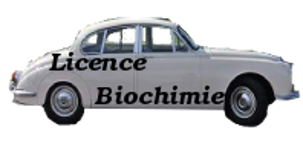
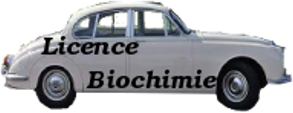
redimensionnement qd tt est chargé/ affinage image

diff --git a/test.html b/test.html
@@ -1,61 +1,56 @@
 <!doctype html>
 <html lang="fr">
+<head>
 
-<h1>Formation continue</h1>
-<h2>Graduat</h2>
-<p>En 2001 je suis <span>major de promotion</span> d'un Graduat d'<span>informatique de Gestion</span></p>
-<h2>Motivations</h2>
-<p>Après quelques boulots plus ou moins interessants pendant lesquels j'ai redécouvert l'informatique, je décide de m'y former.</p>
-<h2>Où et comment?</h2>
-<p>Pendant 3 ans j'irais 4 soirs/semaine après le boulot à l'école de commerce de Wavre suivre un Graduat d'informatique de Gestion</p>
-<h2>contenu</h2>
-<p> </p>
-<ul>
-    <li>Programmation :
-        <ul>
-            <li>C, C++</li>
-            <li>java</li>
-        </ul>
-    </li>
-    <li>Base de données :
-        <ul>
-            <li>SQL,</li>
-            <li>analyse Meurise</li>
-            <li>Oracle</li>
-        </ul>
-    </li>
-    <li>Réseau</li>
-    <li>bases linux</li>
-</ul>
-<p></p>
+<script type="text/javascript" src="jquery-1.4.2.min.js"></script>
 
+ <style type="text/css">
+	span{
+		padding:8px;
+		border:1px solid red;
+		color:blue;
+	}
+</style>
 
-<h1>Formation continue</h1>
-<h2>Graduat</h2>
-<p>En 2001 je suis <span>major de promotion</span> d'un Graduat d'<span>informatique de Gestion</span>
-    <h2>Motivations</h2>
-    <p>Après quelques boulots plus ou moins interessants pendant lesquels j'ai redécouvert l'informatique, je décide de m'y former.</p>
-    <h2>Où et comment?</h2>
-    <p>Pendant 3 ans j'irais 4 soirs/semaine après le boulot à l'école de commerce de Wavre suivre un Graduat d'informatique de Gestion</p>
-    <h2>contenu</h2>
-    <p>
-        <ul>
-            <li>Programmation :
-                <ul>
-                    <li>C, C++</li>
-                    <li>java</li>
-                </ul>
-            </li>
-            <li>Base de données :
-                <ul>
-                    <li>SQL,</li>
-                    <li>analyse Meurise</li>
-                    <li>Oracle</li>
-                </ul>
-            </li>
-            <li>Réseau</li>
-            <li>bases linux</li>
-        </ul>
-    </p>
+</head>
 
+<body>
+
+<h1>Check if image is loaded jQuery</h1>
+<p>
+<img id="image1"
+src="http://static.jquery.com/files/rocker/images/logo_jquery_215x53.gif"/>
+<p>Load image from
+"http://static.jquery.com/files/rocker/images/logo_jquery_215x53.gif"</p>
+
+<span id="result1"></span>
+</p>
+
+<p>
+<img id="image2" src="xxxx.jpg"/>
+<p>Load image from "xxxx.jpg"</p>
+
+<span id="result2"></span>
+</p>
+
+<script type="text/javascript">
+
+$('#image1')
+	.load(function(){
+		$('#result1').text('Image is loaded!');
+	})
+	.error(function(){
+		$('#result1').text('Image is not loaded!');
+	});
+
+$('#image2')
+	.load(function(){
+		$('#result2').text('Image is loaded!');
+	})
+	.error(function(){
+		$('#result2').text('Image is not loaded!');
+	});
+</script>
+
+</body>
 </html>

diff --git a/css/style.css b/css/style.css
@@ -139,8 +139,6 @@ body {
 
   #nuage_txt {
     background-color: black;
-    color: white;
-    font-size: 12px;
     border-radius: 3px;
     border: solid #A16806 3px; }
 
@@ -245,10 +243,10 @@ a#bac {
 
 a#biochimie {
   width: 22%;
-  height: 17%;
+  height: 15%;
   background-image: url("../image/desktop/sepia/biochimie.png");
-  left: 21%;
-  bottom: -3%; }
+  left: 20%;
+  bottom: 0%; }
   a#biochimie:hover {
     background-image: url("../image/desktop/couleur/biochimie.png"); }
 
@@ -257,7 +255,7 @@ a#graduat {
   height: 20%;
   background-image: url("../image/desktop/sepia/graduat.png");
   left: 43%;
-  bottom: -1%; }
+  bottom: 0%; }
   a#graduat:hover {
     background-image: url("../image/desktop/couleur/graduat.png"); }
 

diff --git a/css/navigation.scss b/css/navigation.scss
@@ -101,10 +101,10 @@ a#bac {
 }
 a#biochimie {
     width: 22%;
-    height: 17%;
+    height: 15%;
     background-image: url($imgSepia + "biochimie.png");
-    left: 21%;
-    bottom: -3%;
+    left: 20%;
+    bottom: 0%;
     &:hover {
         background-image: url($imgCouleur + "biochimie.png");
     }
@@ -114,7 +114,7 @@ a#graduat {
     height: 20%;
     background-image: url($imgSepia + "graduat.png");
     left: 43%;
-    bottom: -1%;
+    bottom: 0%;
     &:hover {
         background-image: url($imgCouleur + "graduat.png");
     }

diff --git a/js/script.js b/js/script.js
@@ -46,9 +46,12 @@ function redimensionnement() {
     })
 };
 //EVENEMENTS
+// Redimensionne qd TOUT (bibli et images) est chargé
 $(document).ready(function() {
-    // Au chargement initial
-    redimensionnement();
+redimensionnement();
+});
+
+$(document).ready(function() {
     // En cas de redimensionnement de la fenêtre
     $(window).resize(function() {
         $('#main').css({

diff --git a/css/structure_small.scss b/css/structure_small.scss
@@ -18,8 +18,6 @@
 
     #nuage_txt {
         background-color: black;
-        color: white;
-        font-size: 12px;
         border-radius: 3px;
         border: solid #A16806 3px;
     }
